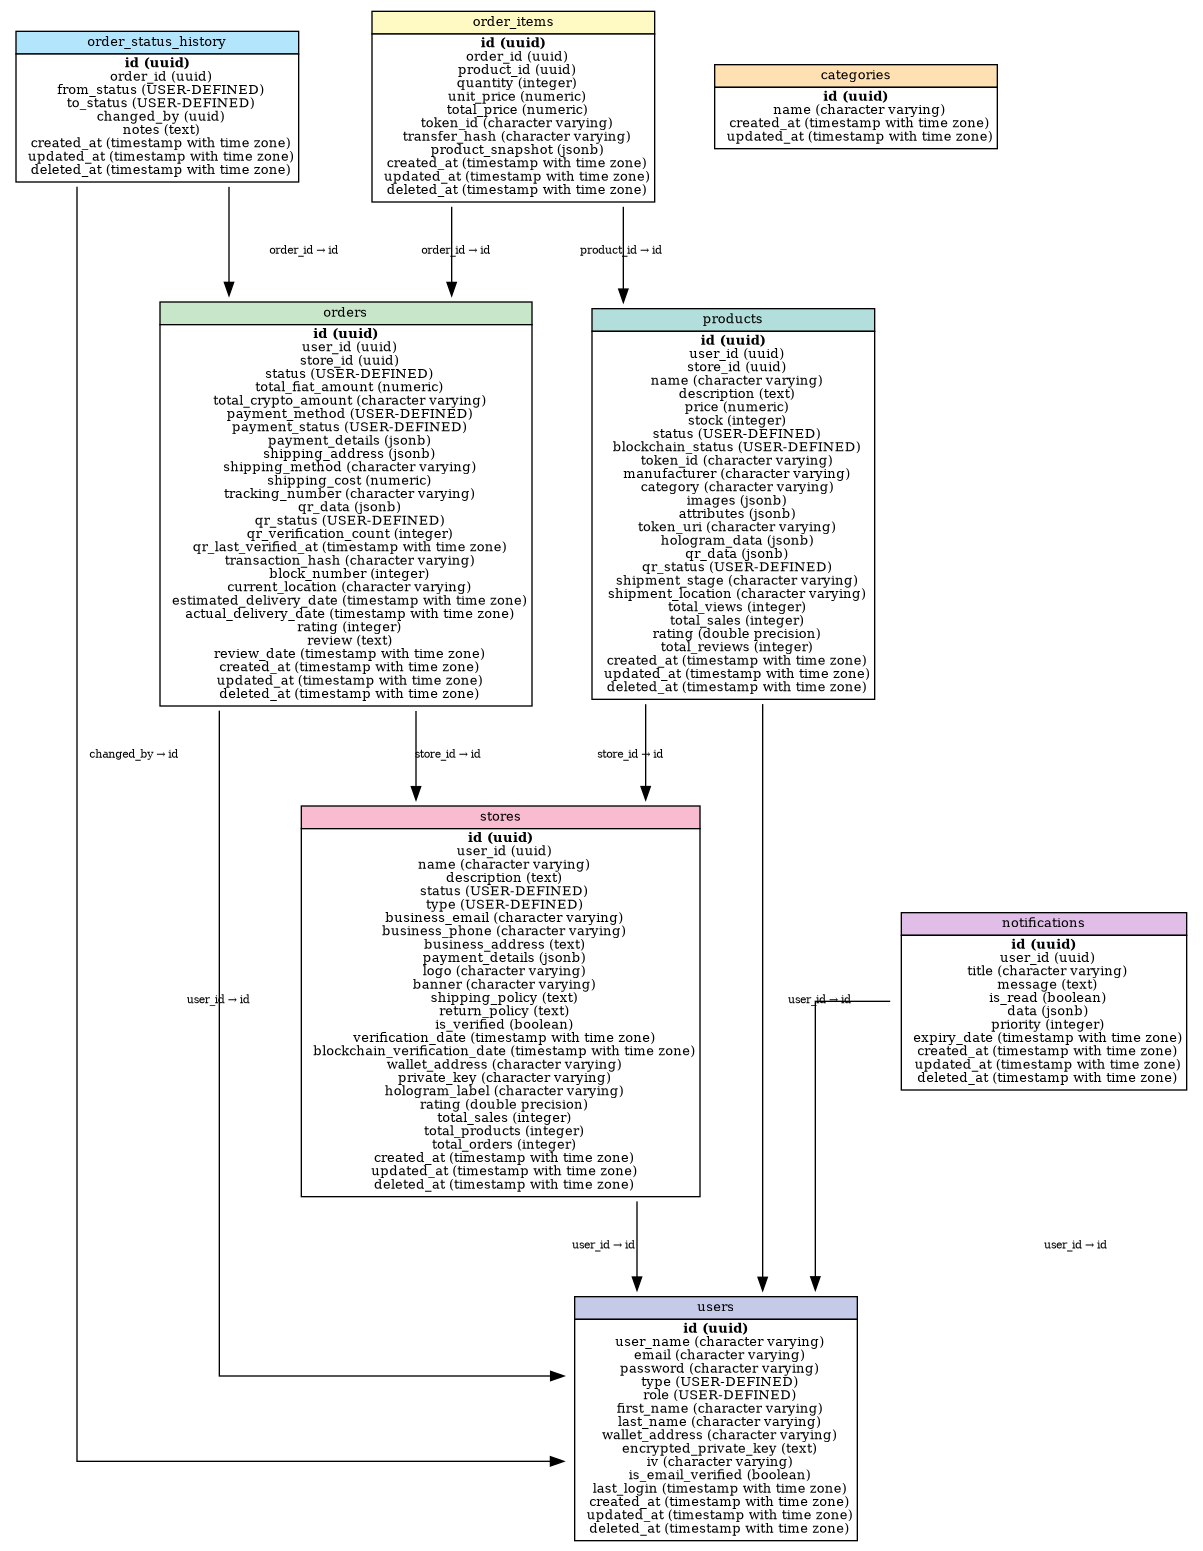
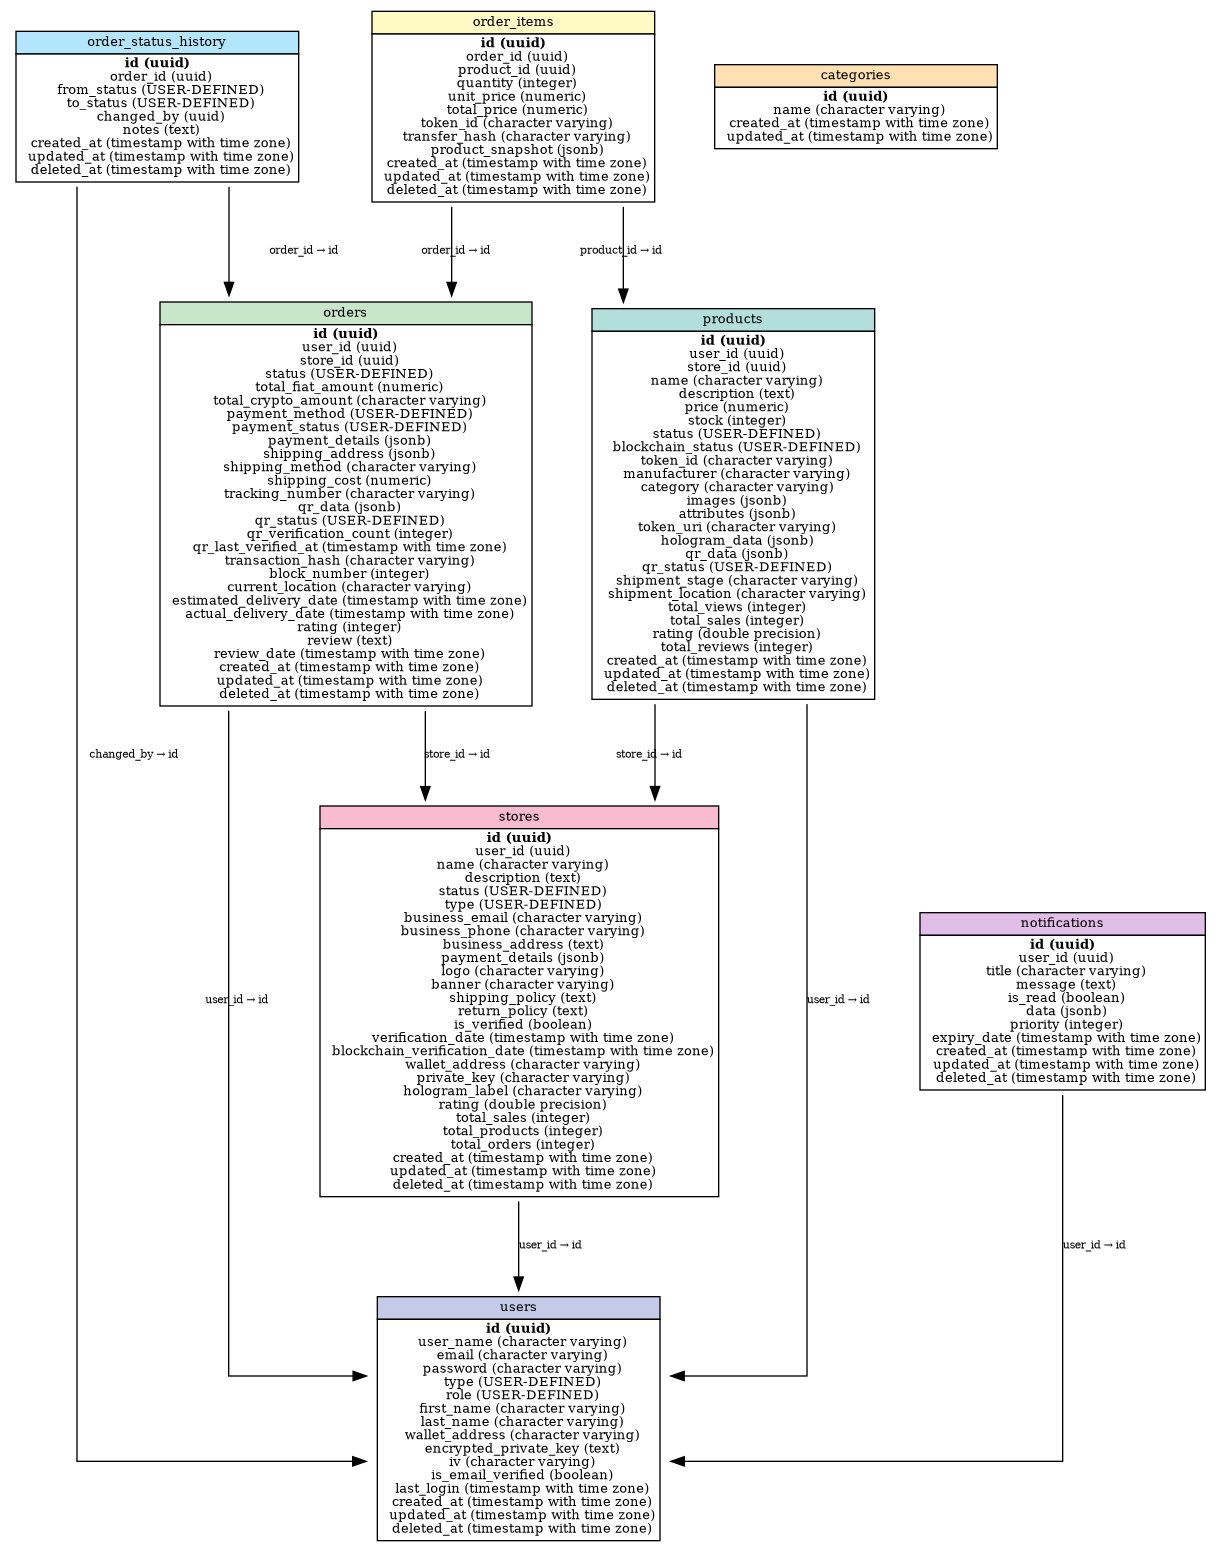
improve label positioning in schema generation

diff --git a/monitor.py b/monitor.py
@@ -1023,12 +1023,12 @@ def get_schema():
             dot.attr(splines='ortho')
             # Update edge attributes for better label positioning
             dot.attr('edge', arrowhead='normal', fontsize='8', 
-                    labeldistance='0.3', labelangle='45', labelloc='c')
+                    labeldistance='1.0', labelangle='0', labelloc='c')
             
             # Graph-level attributes
             dot.attr(nodesep='0.4')
             dot.attr(ranksep='0.8')
-            dot.attr(concentrate='true')
+            dot.attr(concentrate='false')  # Turn off concentrate for better label placement
             
             # Add tables with colored headers
             for idx, (table_name, columns) in enumerate(tables.items()):
@@ -1052,13 +1052,23 @@ def get_schema():
                     
                     dot.node(table_name, label, shape='none')
             
-            # Add relationships
+            # Add relationships with improved label positioning
             for rel in relationships:
                 from_table = rel['from']['table']
                 to_table = rel['to']['table']
                 if from_table not in IGNORED_TABLES and to_table not in IGNORED_TABLES:
                     label = f"{rel['from']['column']} → {rel['to']['column']}"
-                    dot.edge(from_table, to_table, label)
+                    # Use headlabel/taillabel instead of edge label for better positioning
+                    if len(label) > 20:  # Long labels might drift more
+                        # For longer labels, use separate head/tail labels
+                        dot.edge(from_table, to_table, 
+                               headlabel=rel['to']['column'], 
+                               taillabel=rel['from']['column'],
+                               labeldistance='2.0',
+                               labelangle='25')
+                    else:
+                        # For shorter labels, keep them centered
+                        dot.edge(from_table, to_table, label=label)
             
             # Save and return image path
             schema_path = os.path.join(app.static_folder, 'schema.png')
